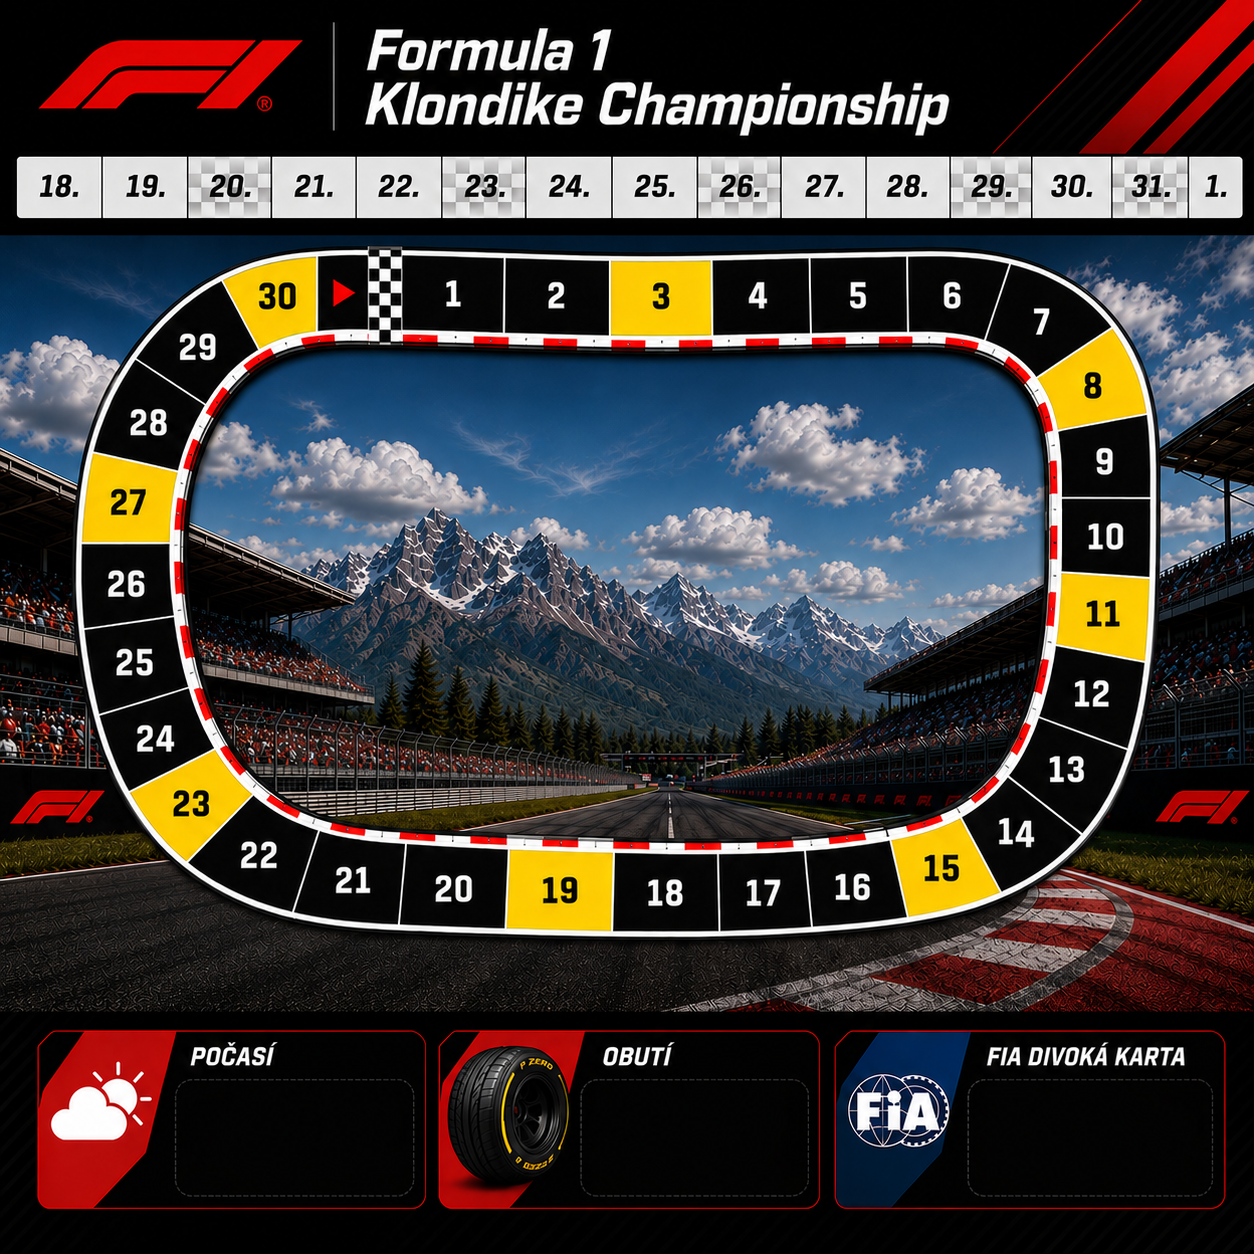
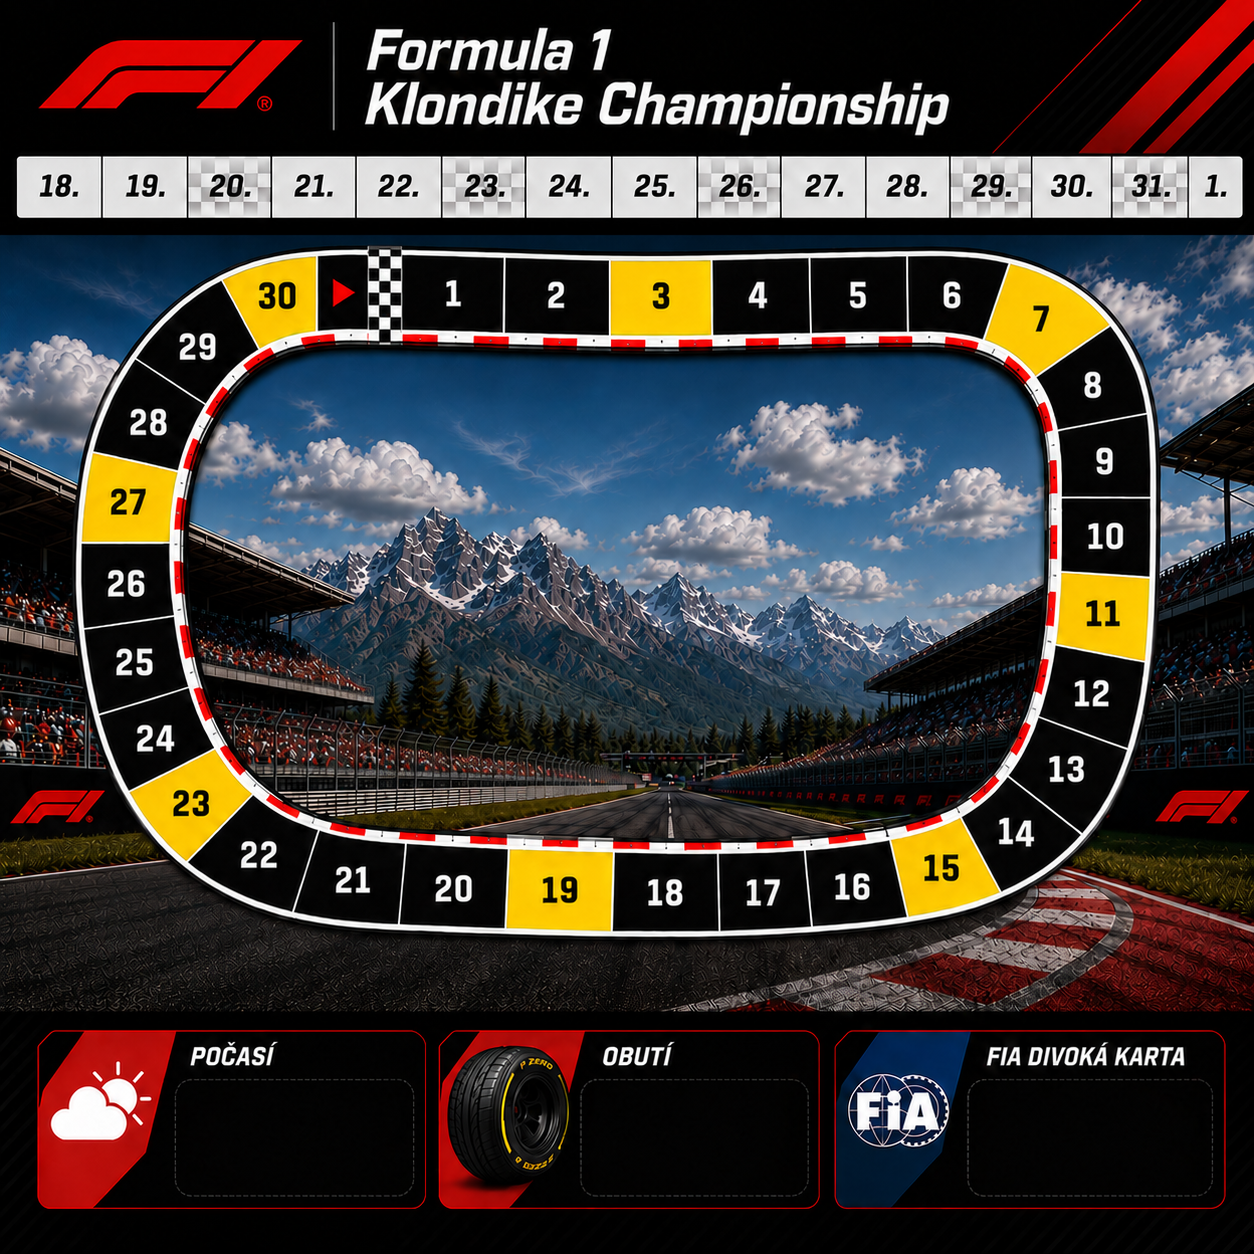
Replace circuit board background

diff --git a/index.html b/index.html
@@ -52,8 +52,8 @@
     .f1DateText { pointer-events:none; fill:#090909; font-size:34px; font-weight:1000; font-style:italic; text-anchor:middle; dominant-baseline:central; paint-order:stroke; stroke:rgba(255,255,255,0.72); stroke-width:4; }
     .f1CenterBoard { fill:rgba(5,7,12,0.78); stroke:rgba(255,255,255,0.72); stroke-width:2; }
     .f1CenterTitle { fill:#fff; font-size:26px; font-weight:1000; text-anchor:middle; letter-spacing:1px; }
-    .f1CenterRowText { fill:#fff; font-size:21px; font-weight:900; dominant-baseline:central; }
-    .f1CenterMuted { fill:rgba(255,255,255,0.72); font-size:17px; font-weight:800; dominant-baseline:central; }
+    .f1CenterRowText { fill:#fff; font-size:19px; font-weight:900; dominant-baseline:central; }
+    .f1CenterMuted { fill:rgba(255,255,255,0.78); font-size:15px; font-weight:800; dominant-baseline:central; }
     .legend { display:flex; gap:10px; flex-wrap:wrap; justify-content:center; }
     .legendItem { display:flex; gap:8px; align-items:center; padding:6px 10px; border:1px solid rgba(255,255,255,0.08); border-radius:999px; background:rgba(255,255,255,0.03); }
     .history { max-height:240px; overflow:auto; padding-right:4px; }
@@ -3460,27 +3460,19 @@ function renderQueue(){
     });
     const centerRows = standings.map((team, idx) => {
       const pos = teamLapTile(team);
-      const tileText = team.offTrack ? "OUT" : `P${displayTile(pos.tile)}`;
+      const tileText = team.offTrack ? "0 okr. / mimo trať" : `${pos.lap} okr. / pole ${displayTile(pos.tile)}`;
       const y = 500 + idx * 34;
       return `
         <circle cx="434" cy="${y}" r="10" fill="${team.color}" stroke="rgba(0,0,0,0.75)" stroke-width="2" />
         <text class="f1CenterRowText" x="456" y="${y}">${idx + 1}. ${escapeHtml(f1TeamCode(team))}</text>
-        <text class="f1CenterMuted" x="690" y="${y}" text-anchor="end">${escapeHtml(tileText)}</text>
+        <text class="f1CenterMuted" x="730" y="${y}" text-anchor="end">${escapeHtml(tileText)}</text>
       `;
     }).join("");
     const centerBoard = `
       <g aria-label="Aktualni poradi">
-        <rect class="f1CenterBoard" x="380" y="405" width="350" height="300" rx="18" />
-        <text class="f1CenterTitle" x="555" y="455">PORADI</text>
+        <rect class="f1CenterBoard" x="360" y="405" width="395" height="300" rx="18" />
+        <text class="f1CenterTitle" x="557" y="455">POŘADÍ</text>
         ${centerRows}
-      </g>
-    `;
-    const tileColorCorrections = `
-      <g aria-label="Korekce barev eventovych poli">
-        <path d="M 1011 291 L 1092 289 L 1122 340 L 1088 399 L 1022 361 L 978 348 Z" fill="#ffd400" stroke="rgba(255,255,255,0.86)" stroke-width="2" />
-        <text x="1059" y="342" fill="#080808" font-size="37" font-weight="1000" text-anchor="middle" dominant-baseline="central" paint-order="stroke" stroke="rgba(255,255,255,0.35)" stroke-width="2">7</text>
-        <path d="M 1090 331 L 1138 351 L 1139 445 L 1073 445 L 1050 389 Z" fill="#080808" stroke="rgba(255,255,255,0.86)" stroke-width="2" />
-        <text x="1105" y="389" fill="#ffffff" font-size="37" font-weight="1000" text-anchor="middle" dominant-baseline="central" paint-order="stroke" stroke="rgba(0,0,0,0.72)" stroke-width="3">8</text>
       </g>
     `;
 
@@ -3491,7 +3483,6 @@ function renderQueue(){
       svg.classList.add("f1CircuitSvg");
       svg.innerHTML = `
         <image href="./pocitadlo.png" x="0" y="0" width="${boardW}" height="${boardH}" preserveAspectRatio="xMidYMid meet"></image>
-        ${tileColorCorrections}
         ${dateHighlight}
         ${centerBoard}
         <g>${hits}</g>

diff --git a/app_v7_enhancements.js b/app_v7_enhancements.js
@@ -1403,7 +1403,7 @@
           <div class="kidsPublicCard kidsF1Card raceStatusPanel">
             <div class="enhHistoryHead">
               <div>
-                <div class="enhMuted">Stav zavodu</div>
+                <div class="enhMuted">Stav závodu</div>
                 <div class="big">${escapeHtml(state.settings?.raceName || "VC Klondike")}</div>
               </div>
               ${raceHeader}
@@ -1413,7 +1413,7 @@
                 <div class="raceCodeRow">
                   <strong>${item.rank}.</strong>
                   <span class="enhTag">${escapeHtml(code(item.team))}</span>
-                  <span class="enhMuted">${item.team.offTrack ? "mimo trat" : `${item.team.total} poli, pole ${fmtTile(item.tile)}`}</span>
+                  <span class="enhMuted">${item.team.offTrack ? "0 okr. / mimo trať" : `${item.lap} okr. / pole ${fmtTile(item.tile)} • ${item.team.total} polí`}</span>
                 </div>
               `).join("")}
             </div>
@@ -1422,7 +1422,7 @@
             <div class="enhHistoryHead">
               <div>
                 <div class="enhMuted">Historie</div>
-                <div class="big" style="font-size:18px;">Posledni 2 kola</div>
+                <div class="big" style="font-size:18px;">Poslední 2 kola</div>
               </div>
             </div>
             <div class="raceRoundNarrative">
@@ -1431,7 +1431,7 @@
                   <strong>Kolo ${round.roundNo}: ${escapeHtml(round.activityName || "bez nazvu")}</strong>
                   <div class="raceRoundNarrative">${describeRound(round)}</div>
                 </div>
-              `).join("") : `<div class="enhPreviewItem">Zatim nejsou potvrzena zadna kola.</div>`}
+              `).join("") : `<div class="enhPreviewItem">Zatím nejsou potvrzena žádná kola.</div>`}
             </div>
           </div>
         </div>